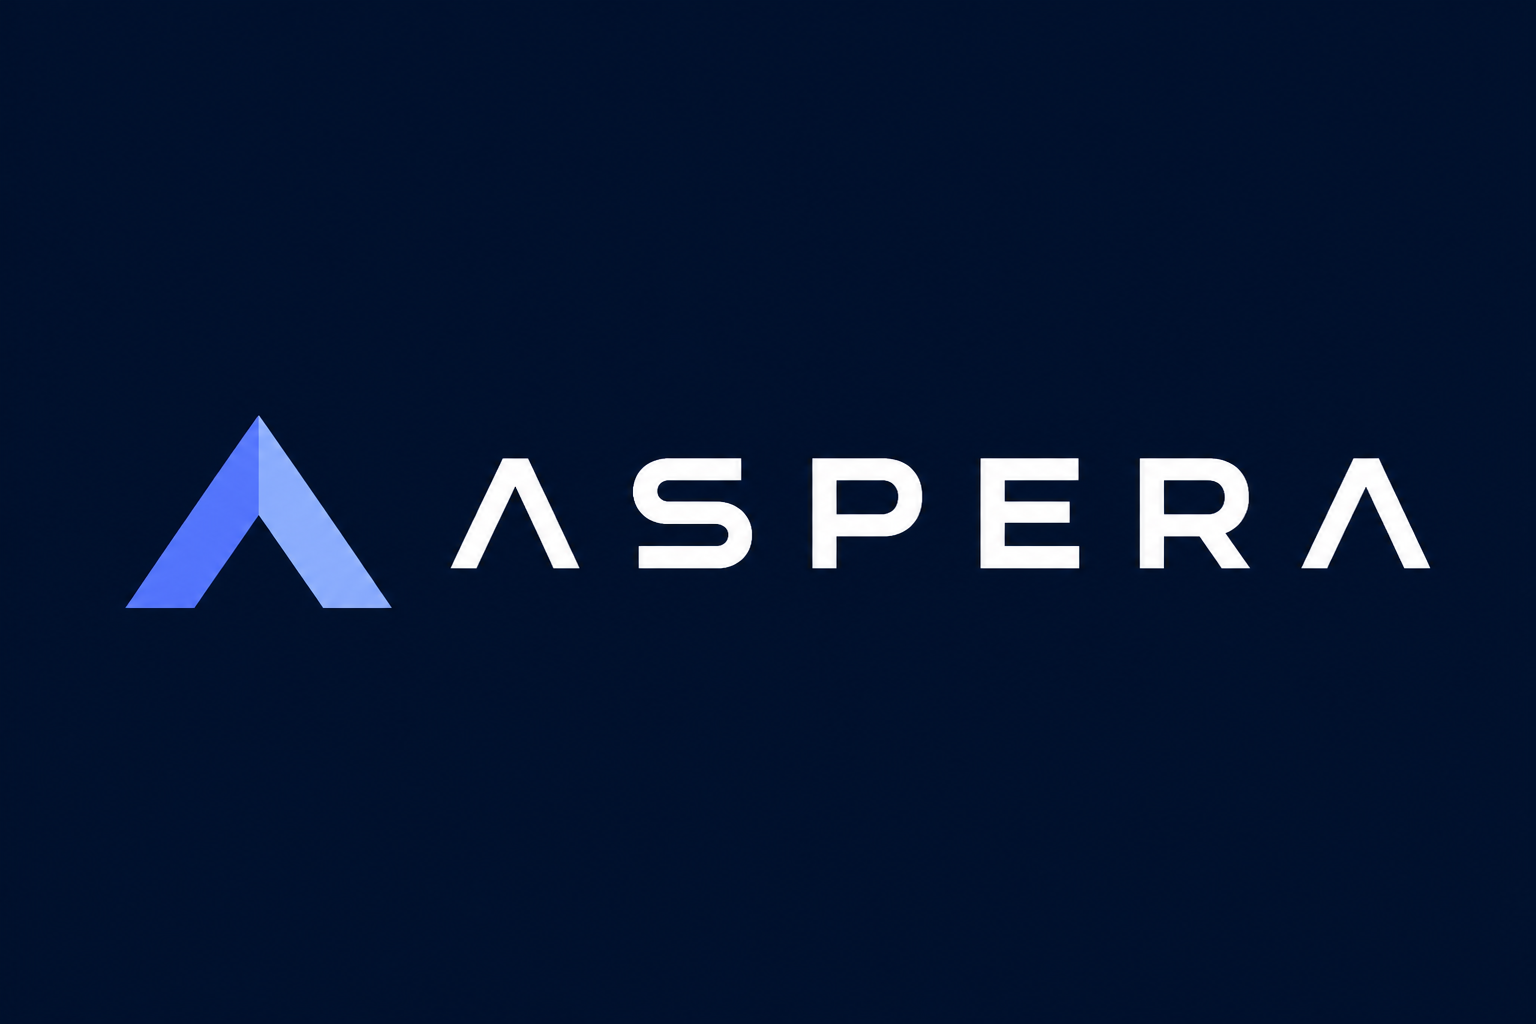
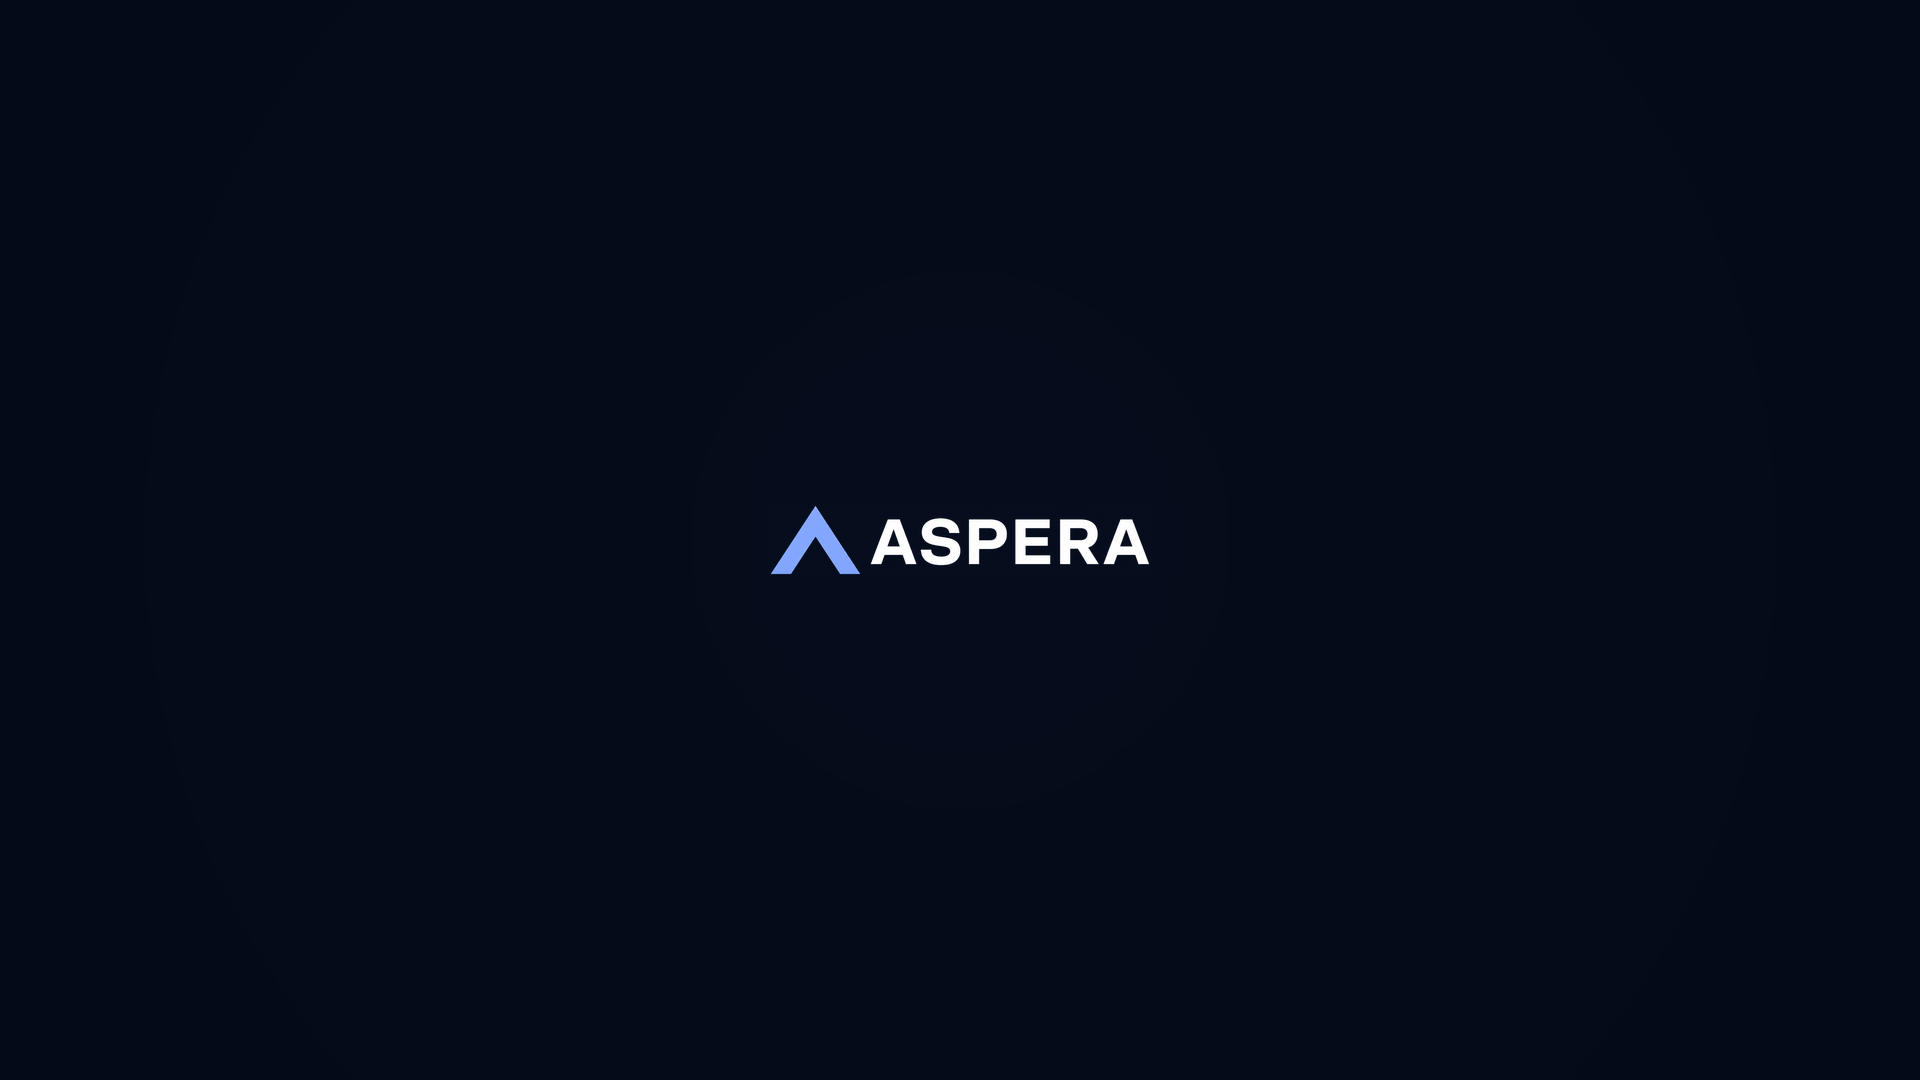
Fix Aspera start-menu mark and proportional wallpaper.
Whisker uses the chevron mark only (not the full wordmark). Wallpaper is
1920x1080 navy with a small centered wordmark instead of a huge logo.

diff --git a/docs/DECISIONS.md b/docs/DECISIONS.md
@@ -36,9 +36,9 @@
 
 ## ADR-006 — Branding
 
-**Decision:** Aspera logo (`branding/logos/aspera.png`) on wallpaper, Whisker menu icon where possible, LightDM/slick-greeter, and docs. Dark navy company look.
+**Decision:** Dark navy company look. Full wordmark (`branding/logos/aspera.png`) for greeter and docs. Start menu / panel uses only the chevron mark (`branding/logos/aspera-mark.png`). Default wallpaper is 1920×1080 navy with a **small centered** wordmark (~20% width) — not a huge full-bleed logo.
 
-**Why:** Staff must see they are on the company OS, not stock Mint.
+**Why:** Staff must see they are on the company OS, not stock Mint. A panel-sized wordmark looks broken; a screen-filling logo looks unprofessional.
 
 ## ADR-007 — No staff software store
 

diff --git a/branding/README.md b/branding/README.md
@@ -1,7 +1,11 @@
 # Branding
 
-- `logos/aspera.png` — primary wordmark (wallpaper / docs / greeter)
-- `logos/aspera-mark.png` — start-menu / panel mark (logo only, no text)
-- `wallpapers/aspera-default.png` — default desktop background
+- `logos/aspera.png` — primary wordmark (docs / greeter)
+- `logos/aspera-mark.png` — **start menu / panel only** (chevron mark, transparent)
+- `logos/aspera-avatar.png` — user/account avatar
+- `wallpapers/aspera-default.png` — default desktop (1920×1080 navy, small centered wordmark)
+
+Do not put the full wordmark on the Whisker start button. Do not use a
+full-bleed logo as the wallpaper.
 
 Replace these files anytime; rebuild ISO or re-run Ansible branding role.
